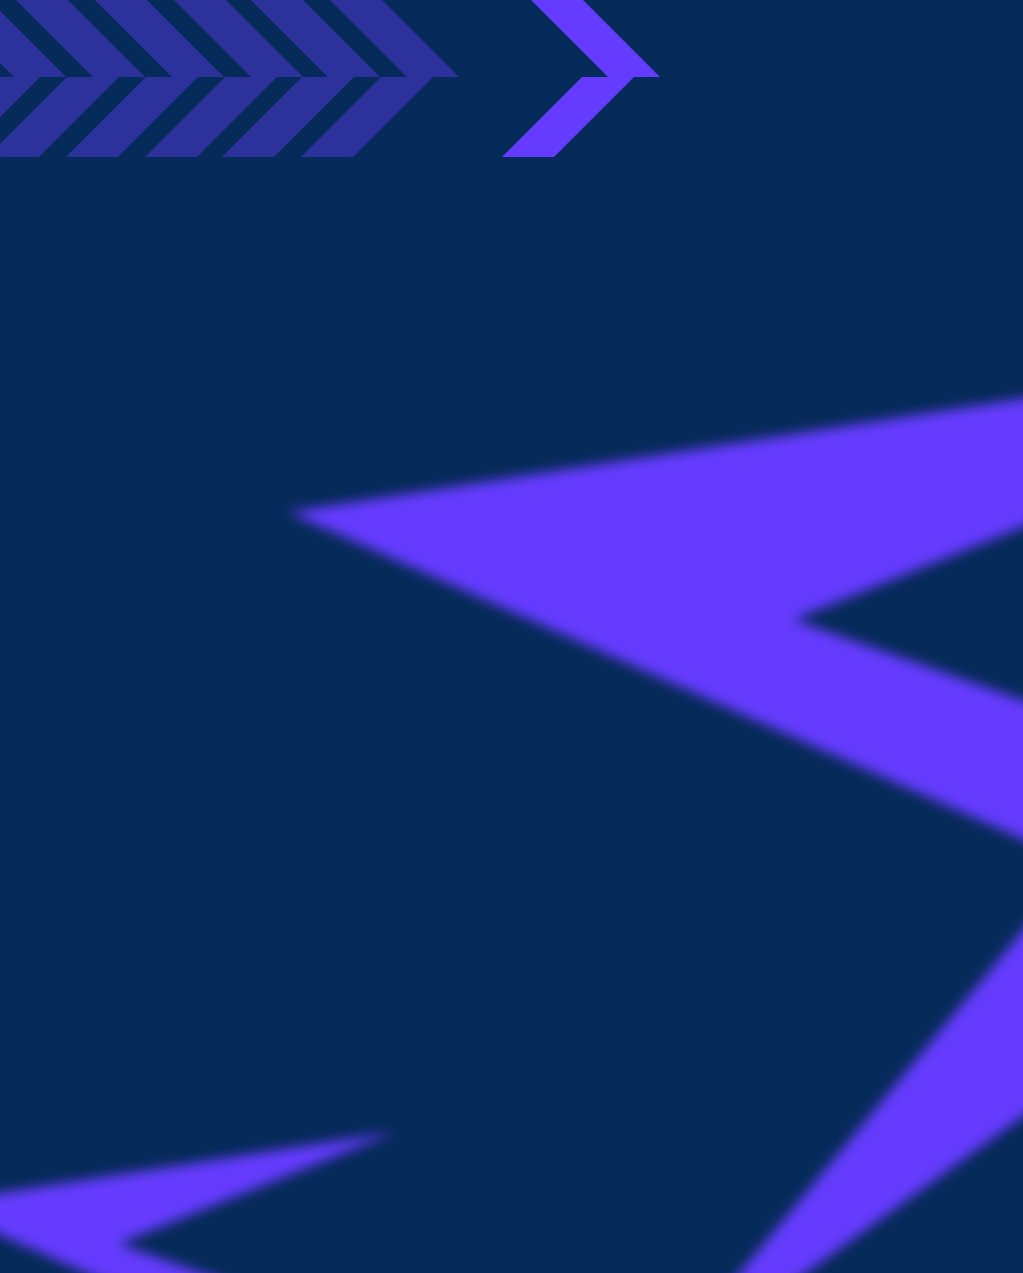
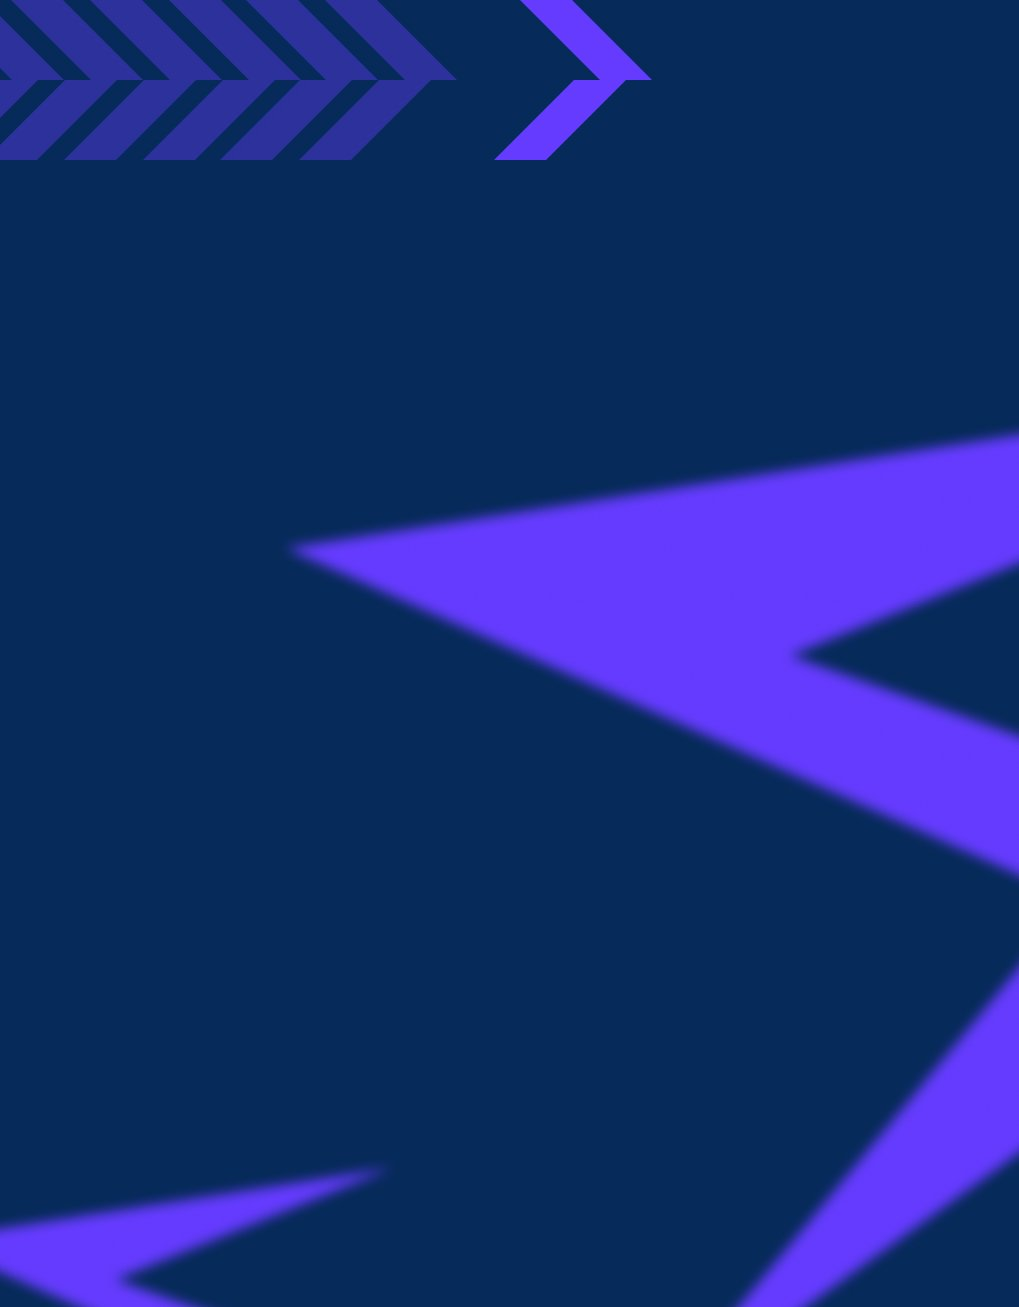
a

diff --git a/src/scss/Banner-2.scss b/src/scss/Banner-2.scss
@@ -8,7 +8,7 @@
         background-image: url(../assets/background/frame2.jpg);
         background-repeat: no-repeat;
         width: 1024px;
-        height: 1280px;
+        height: 1310px;
         display: grid;
         justify-content: center;
 
@@ -21,7 +21,7 @@
 
         .container-block {
             padding-bottom: 40px;
-            margin-top: 0px;
+            margin-top: 25px;
             width: 844px;
             height: 1067px;
             background-color: rgba(0, 24, 55, 0.8);
@@ -126,7 +126,6 @@
             }
 
             padding: 10px;
-            margin: 10px;
             display: flex;
             justify-content: center;
             align-items: center;

diff --git a/src/css/Banner-2.css b/src/css/Banner-2.css
@@ -8,7 +8,7 @@
   background-image: url(../assets/background/frame2.jpg);
   background-repeat: no-repeat;
   width: 1024px;
-  height: 1280px;
+  height: 1310px;
   display: grid;
   justify-content: center;
 }
@@ -20,7 +20,7 @@
 }
 .banner-2 .continer .container-block {
   padding-bottom: 40px;
-  margin-top: 0px;
+  margin-top: 25px;
   width: 844px;
   height: 1067px;
   background-color: rgba(0, 24, 55, 0.8);
@@ -103,7 +103,6 @@
 }
 .banner-2 .continer .logo {
   padding: 10px;
-  margin: 10px;
   display: flex;
   justify-content: center;
   align-items: center;
